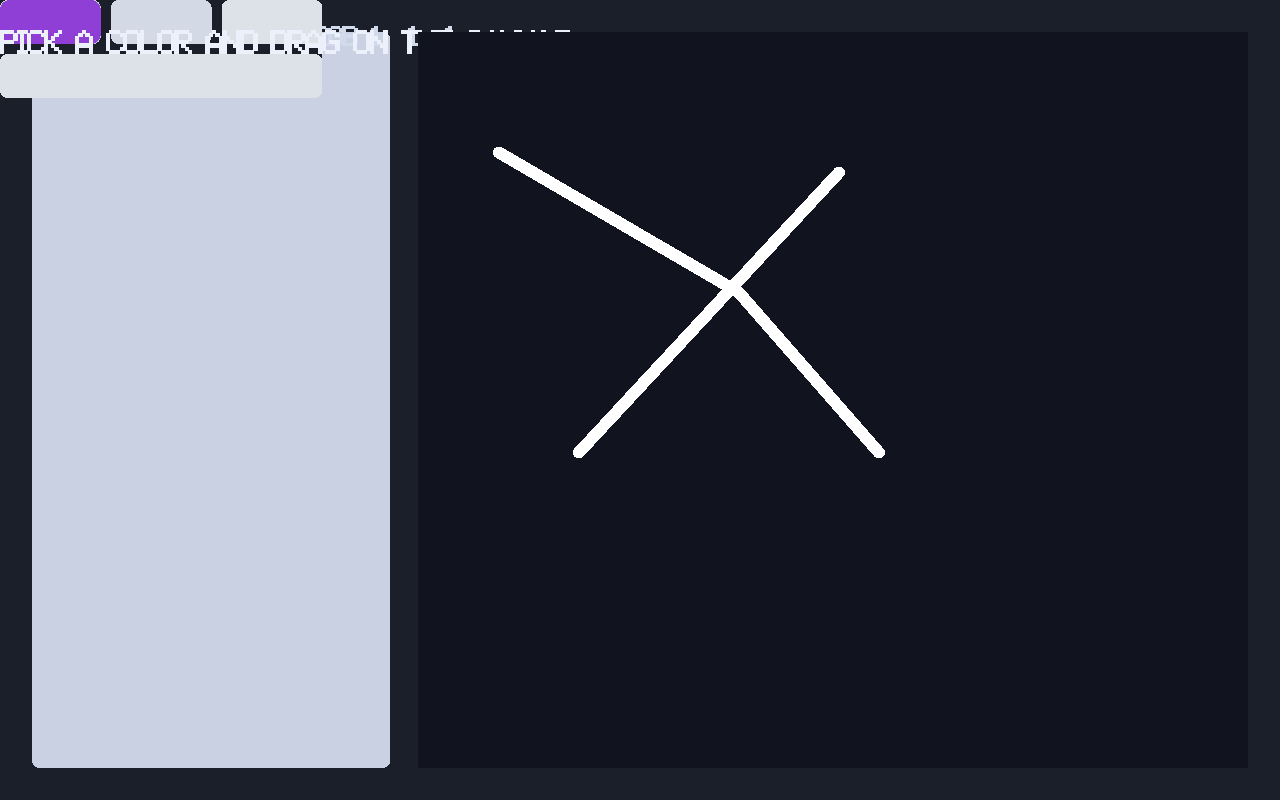
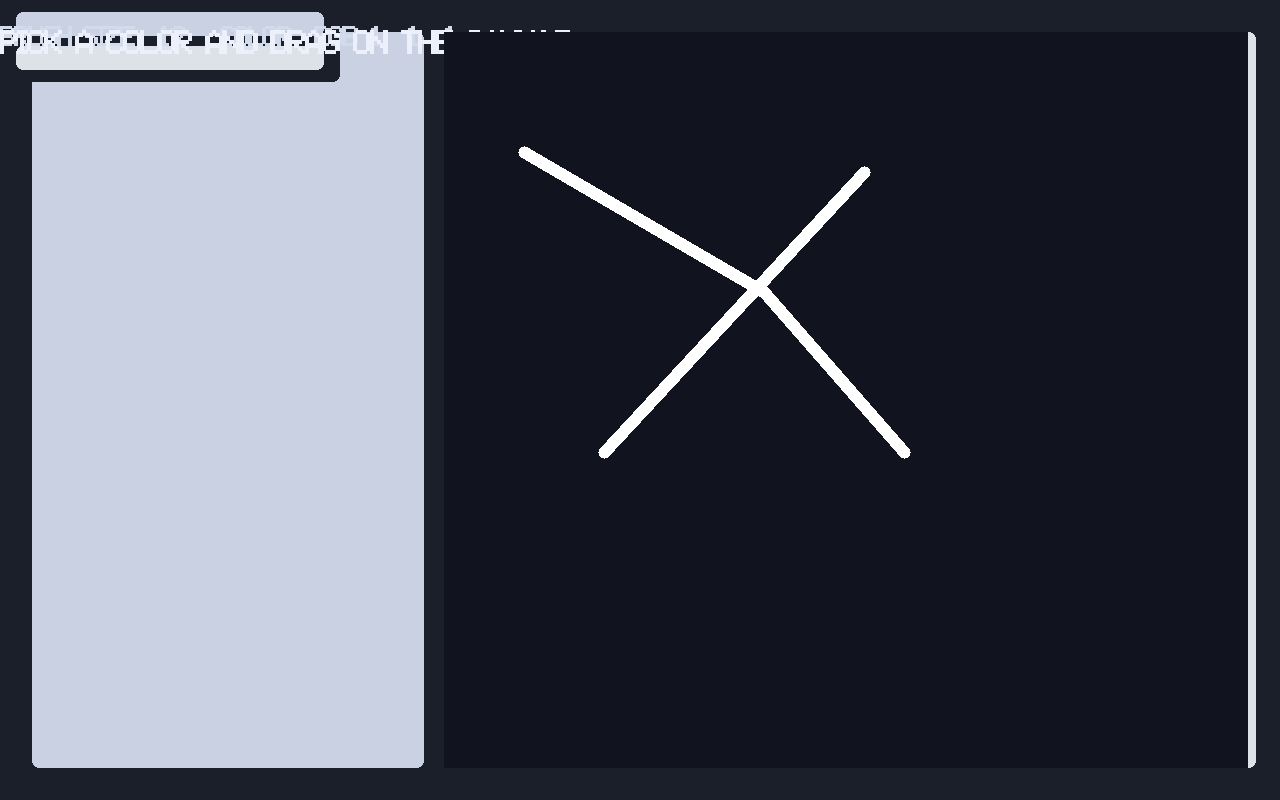
fix(ui): reflow paint controls column layout

Changed region(s): [[0.0, 0.0, 0.3438, 0.9688], [0.375, 0.1875, 0.7188, 0.5938], [0.9688, 0.0312, 1.0, 0.9688]]

diff --git a/src/pathspace/examples/paint/PaintControls.cpp b/src/pathspace/examples/paint/PaintControls.cpp
@@ -47,10 +47,18 @@ auto ComputeLayoutMetrics(int window_width, int window_height) -> PaintLayoutMet
     }
     auto scale = metrics.controls_scale;
     metrics.controls_spacing = std::lerp(18.0f, 28.0f, scale);
-    metrics.controls_padding_main = std::lerp(14.0f, 20.0f, scale);
-    metrics.controls_padding_cross = std::lerp(12.0f, 18.0f, scale);
-    metrics.palette_button_height = std::lerp(36.0f, 44.0f, scale);
-    metrics.controls_width = std::clamp(width_f * 0.28f, 300.0f, 420.0f);
+    metrics.controls_section_spacing = std::lerp(20.0f, 30.0f, scale);
+    metrics.controls_padding_main = std::lerp(18.0f, 26.0f, scale);
+    metrics.controls_padding_cross = std::lerp(16.0f, 22.0f, scale);
+    metrics.section_padding_main = std::lerp(8.0f, 12.0f, scale);
+    metrics.section_padding_cross = std::lerp(10.0f, 16.0f, scale);
+    metrics.status_block_spacing = std::lerp(6.0f, 10.0f, scale);
+    metrics.palette_row_spacing = std::lerp(10.0f, 16.0f, scale);
+    metrics.actions_row_spacing = std::lerp(10.0f, 16.0f, scale);
+    metrics.palette_button_height = std::lerp(40.0f, 52.0f, scale);
+    metrics.controls_width = std::clamp(width_f * 0.30f, 320.0f, 460.0f);
+    auto column_width = std::max(metrics.controls_width - metrics.controls_padding_cross * 2.0f, 240.0f);
+    metrics.controls_content_width = std::max(column_width - metrics.section_padding_cross * 2.0f, 220.0f);
     metrics.canvas_offset_x = metrics.padding_x + metrics.controls_width + metrics.controls_spacing;
     metrics.canvas_offset_y = metrics.padding_y;
     auto available_width = width_f - (metrics.canvas_offset_x + metrics.padding_x);
@@ -104,17 +112,17 @@ auto BuildPaletteFragment(PaletteComponentConfig const& config)
     -> SP::UI::Declarative::WidgetFragment {
     SP::UI::Declarative::Stack::Args column{};
     column.style.axis = SP::UI::Builders::Widgets::StackAxis::Vertical;
-    auto vertical_spacing = std::max(6.0f, 10.0f * config.layout.controls_scale);
+    auto vertical_spacing = std::max(config.layout.palette_row_spacing, 8.0f);
     column.style.spacing = vertical_spacing;
     column.style.align_cross = SP::UI::Builders::Widgets::StackAlignCross::Stretch;
-    auto column_width = std::max(config.layout.controls_width - config.layout.controls_padding_cross * 2.0f, 240.0f);
+    auto column_width = std::max(config.layout.controls_content_width, 240.0f);
     column.style.width = column_width;
 
     int row_index = 0;
     for (std::size_t index = 0; index < config.entries.size();) {
         SP::UI::Declarative::Stack::Args row{};
         row.style.axis = SP::UI::Builders::Widgets::StackAxis::Horizontal;
-        row.style.spacing = vertical_spacing;
+        row.style.spacing = std::max(10.0f, 14.0f * config.layout.controls_scale);
         row.style.align_cross = SP::UI::Builders::Widgets::StackAlignCross::Stretch;
         auto total_spacing = row.style.spacing * static_cast<float>(kButtonsPerRow - 1);
         auto available_width = std::max(column_width - total_spacing,
@@ -130,8 +138,8 @@ auto BuildPaletteFragment(PaletteComponentConfig const& config)
             args.style.corner_radius = std::max(6.0f, 10.0f * config.layout.controls_scale);
             args.style.background_color = entry.color;
             args.style.text_color = palette_button_text_color(entry.color, config.theme);
-            args.style.typography = MakeTypography(18.0f * config.layout.controls_scale,
-                                                   22.0f * config.layout.controls_scale);
+            args.style.typography = MakeTypography(19.0f * config.layout.controls_scale,
+                                                   24.0f * config.layout.controls_scale);
             args.on_press = [entry, handler = config.on_select, brush_state = config.brush_state](
                                 SP::UI::Declarative::ButtonContext& ctx) {
                 if (brush_state) {
@@ -165,15 +173,13 @@ auto BuildBrushSliderFragment(BrushSliderConfig const& config)
     slider.maximum = config.maximum;
     slider.step = config.step;
     slider.value = config.brush_state ? config.brush_state->size : slider.minimum;
-    slider.style.width = std::max(180.0f,
-                                  config.layout.controls_width
-                                      - config.layout.controls_padding_cross * 2.0f);
-    slider.style.height = std::max(32.0f, 40.0f * config.layout.controls_scale);
-    slider.style.track_height = std::max(6.0f, 8.0f * config.layout.controls_scale);
-    slider.style.thumb_radius = std::max(8.0f, 11.0f * config.layout.controls_scale);
+    slider.style.width = std::max(200.0f, config.layout.controls_content_width);
+    slider.style.height = std::max(34.0f, 44.0f * config.layout.controls_scale);
+    slider.style.track_height = std::max(7.0f, 9.0f * config.layout.controls_scale);
+    slider.style.thumb_radius = std::max(9.0f, 12.0f * config.layout.controls_scale);
     slider.style.label_color = {0.84f, 0.88f, 0.94f, 1.0f};
-    slider.style.label_typography = MakeTypography(18.0f * config.layout.controls_scale,
-                                                   22.0f * config.layout.controls_scale);
+    slider.style.label_typography = MakeTypography(19.0f * config.layout.controls_scale,
+                                                   24.0f * config.layout.controls_scale);
     slider.on_change = [handler = config.on_change, brush_state = config.brush_state](
                           SP::UI::Declarative::SliderContext& ctx) {
         if (brush_state) {
@@ -190,10 +196,15 @@ auto BuildHistoryActionsFragment(HistoryActionsConfig const& config)
     -> SP::UI::Declarative::WidgetFragment {
     SP::UI::Declarative::Stack::Args row{};
     row.style.axis = SP::UI::Builders::Widgets::StackAxis::Horizontal;
-    row.style.spacing = std::max(8.0f, 12.0f * config.layout.controls_scale);
+    row.style.spacing = std::max(config.layout.actions_row_spacing, 8.0f);
     row.style.align_cross = SP::UI::Builders::Widgets::StackAlignCross::Stretch;
-    auto column_width = std::max(config.layout.controls_width - config.layout.controls_padding_cross * 2.0f, 240.0f);
-    auto button_width = std::max(140.0f, (column_width - row.style.spacing) * 0.5f);
+    row.style.padding_main_start = config.layout.section_padding_main;
+    row.style.padding_main_end = config.layout.section_padding_main;
+    row.style.padding_cross_start = config.layout.section_padding_cross;
+    row.style.padding_cross_end = config.layout.section_padding_cross;
+    row.style.width = config.layout.controls_content_width + config.layout.section_padding_cross * 2.0f;
+    auto column_width = std::max(config.layout.controls_content_width, 240.0f);
+    auto button_width = std::max(150.0f, (column_width - row.style.spacing) * 0.5f);
 
     auto build_button = [&](std::string id,
                             std::string label,
@@ -202,8 +213,10 @@ auto BuildHistoryActionsFragment(HistoryActionsConfig const& config)
         args.label = std::move(label);
         args.enabled = false;
         args.style.width = button_width;
-        args.style.height = std::max(34.0f, 42.0f * config.layout.controls_scale);
-        args.style.corner_radius = std::max(5.0f, 8.0f * config.layout.controls_scale);
+        args.style.height = std::max(36.0f, 44.0f * config.layout.controls_scale);
+        args.style.corner_radius = std::max(6.0f, 9.0f * config.layout.controls_scale);
+        args.style.typography = MakeTypography(18.0f * config.layout.controls_scale,
+                                               22.0f * config.layout.controls_scale);
         args.on_press = [handler = config.on_action, action](SP::UI::Declarative::ButtonContext& ctx) {
             if (handler) {
                 handler(ctx, action);

diff --git a/examples/paint_example.cpp b/examples/paint_example.cpp
@@ -1557,7 +1557,9 @@ struct PaintUiBindings {
 };
 
 constexpr auto kControlsStackChildren =
-    std::to_array<std::string_view>({"status_label", "brush_label", "brush_slider", "palette", "actions"});
+    std::to_array<std::string_view>({"status_section", "brush_slider", "palette", "actions"});
+constexpr auto kStatusStackChildren =
+    std::to_array<std::string_view>({"status_label", "brush_label"});
 constexpr auto kActionsStackChildren = std::to_array<std::string_view>({"undo_button", "redo_button"});
 
 auto set_history_buttons_enabled(SP::PathSpace& space,
@@ -1603,7 +1605,7 @@ auto build_controls_fragment(PaintUiBindings const& bindings,
     using namespace PaintControlsNS;
     SP::UI::Declarative::Stack::Args controls{};
     controls.style.axis = SP::UI::Builders::Widgets::StackAxis::Vertical;
-    controls.style.spacing = std::max(10.0f, layout.controls_spacing * 0.6f);
+    controls.style.spacing = std::max(layout.controls_section_spacing, 8.0f);
     controls.style.align_cross = SP::UI::Builders::Widgets::StackAlignCross::Stretch;
     controls.style.width = layout.controls_width;
     controls.style.height = layout.canvas_height;
@@ -1612,7 +1614,21 @@ auto build_controls_fragment(PaintUiBindings const& bindings,
     controls.style.padding_cross_start = layout.controls_padding_cross;
     controls.style.padding_cross_end = layout.controls_padding_cross;
 
-    controls.panels.push_back(SP::UI::Declarative::Stack::Panel{
+    auto make_section_stack = [&](float spacing) {
+        SP::UI::Declarative::Stack::Args section{};
+        section.style.axis = SP::UI::Builders::Widgets::StackAxis::Vertical;
+        section.style.spacing = spacing;
+        section.style.align_cross = SP::UI::Builders::Widgets::StackAlignCross::Stretch;
+        section.style.padding_main_start = layout.section_padding_main;
+        section.style.padding_main_end = layout.section_padding_main;
+        section.style.padding_cross_start = layout.section_padding_cross;
+        section.style.padding_cross_end = layout.section_padding_cross;
+        section.style.width = layout.controls_content_width + layout.section_padding_cross * 2.0f;
+        return section;
+    };
+
+    auto status_section = make_section_stack(layout.status_block_spacing);
+    status_section.panels.push_back(SP::UI::Declarative::Stack::Panel{
         .id = "status_label",
         .fragment = SP::UI::Declarative::Label::Fragment({
             .text = "Pick a color and drag on the canvas",
@@ -1623,7 +1639,7 @@ auto build_controls_fragment(PaintUiBindings const& bindings,
     });
 
     auto brush_state = bindings.brush_state ? bindings.brush_state : std::make_shared<BrushState>();
-    controls.panels.push_back(SP::UI::Declarative::Stack::Panel{
+    status_section.panels.push_back(SP::UI::Declarative::Stack::Panel{
         .id = "brush_label",
         .fragment = SP::UI::Declarative::Label::Fragment({
             .text = format_brush_state(brush_state->size, brush_state->color),
@@ -1631,6 +1647,11 @@ auto build_controls_fragment(PaintUiBindings const& bindings,
                                          26.0f * layout.controls_scale),
             .color = {0.82f, 0.86f, 0.92f, 1.0f},
         }),
+    });
+    EnsureActivePanel(status_section);
+    controls.panels.push_back(SP::UI::Declarative::Stack::Panel{
+        .id = "status_section",
+        .fragment = SP::UI::Declarative::Stack::Fragment(std::move(status_section)),
     });
 
     BrushSliderConfig slider_config{
@@ -1669,9 +1690,15 @@ auto build_controls_fragment(PaintUiBindings const& bindings,
             }
         },
     };
+    auto slider_section = make_section_stack(0.0f);
+    slider_section.panels.push_back(SP::UI::Declarative::Stack::Panel{
+        .id = "brush_slider_widget",
+        .fragment = BuildBrushSliderFragment(slider_config),
+    });
+    EnsureActivePanel(slider_section);
     controls.panels.push_back(SP::UI::Declarative::Stack::Panel{
         .id = "brush_slider",
-        .fragment = BuildBrushSliderFragment(slider_config),
+        .fragment = SP::UI::Declarative::Stack::Fragment(std::move(slider_section)),
     });
 
     auto palette_entries = BuildDefaultPaletteEntries(theme);
@@ -1708,9 +1735,15 @@ auto build_controls_fragment(PaintUiBindings const& bindings,
             }
         },
     };
+    auto palette_section = make_section_stack(layout.palette_row_spacing);
+    palette_section.panels.push_back(SP::UI::Declarative::Stack::Panel{
+        .id = "palette_grid",
+        .fragment = BuildPaletteFragment(palette_config),
+    });
+    EnsureActivePanel(palette_section);
     controls.panels.push_back(SP::UI::Declarative::Stack::Panel{
         .id = "palette",
-        .fragment = BuildPaletteFragment(palette_config),
+        .fragment = SP::UI::Declarative::Stack::Fragment(std::move(palette_section)),
     });
 
     HistoryActionsConfig actions_config{
@@ -2064,8 +2097,6 @@ int main(int argc, char** argv) {
 
     auto stack_root = ui_stack->getPath();
     auto controls_root = stack_root + "/children/controls_panel";
-    *bindings.status_label_path = controls_root + "/children/status_label";
-    *bindings.brush_label_path = controls_root + "/children/brush_label";
     *bindings.paint_widget_path = stack_root + "/children/canvas_panel";
     auto paint_widget_path = *bindings.paint_widget_path;
 
@@ -2079,6 +2110,17 @@ int main(int argc, char** argv) {
         SP::System::ShutdownDeclarativeRuntime(space);
         return 1;
     }
+    auto status_root = controls_root + "/children/status_section";
+    if (!wait_for_stack_children(space,
+                                 status_root,
+                                 std::span<const std::string_view>(kStatusStackChildren),
+                                 std::chrono::milliseconds(1000),
+                                 debug_layout_logging)) {
+        SP::System::ShutdownDeclarativeRuntime(space);
+        return 1;
+    }
+    *bindings.status_label_path = status_root + "/children/status_label";
+    *bindings.brush_label_path = status_root + "/children/brush_label";
     auto actions_root = controls_root + "/children/actions";
     if (!wait_for_stack_children(space,
                                  actions_root,

diff --git a/src/pathspace/examples/paint/PaintControls.hpp b/src/pathspace/examples/paint/PaintControls.hpp
@@ -15,10 +15,17 @@ namespace SP::Examples::PaintControls {
 struct PaintLayoutMetrics {
     float controls_width = 0.0f;
     float controls_spacing = 0.0f;
+    float controls_section_spacing = 0.0f;
     float padding_x = 0.0f;
     float padding_y = 0.0f;
     float controls_padding_main = 0.0f;
     float controls_padding_cross = 0.0f;
+    float section_padding_main = 0.0f;
+    float section_padding_cross = 0.0f;
+    float controls_content_width = 0.0f;
+    float status_block_spacing = 0.0f;
+    float palette_row_spacing = 0.0f;
+    float actions_row_spacing = 0.0f;
     float palette_button_height = 0.0f;
     float canvas_width = 0.0f;
     float canvas_height = 0.0f;

diff --git a/docs/Plan_PaintExampleLayout.md b/docs/Plan_PaintExampleLayout.md
@@ -3,13 +3,13 @@
 Status Legend — ✅ Done · 🚧 In Progress · ⏳ Planned
 
 ## Motivation
-- Maintainer feedback shows the declarative paint example still renders all controls inside a single pale column with no actual widgets visible; manual macOS screenshots confirm the column is empty and the status label is clipped.
+- Maintainer feedback shows the declarative paint example still bunches every control into the top-left corner (labels/slider/palette/undo overlap and clip), even though the widgets exist; the latest screenshot makes it obvious the layout math/padding is still wrong.
 - The automated `PaintExampleScreenshot` regression test depends on a deterministic baseline PNG, so each UI adjustment (layout, padding, palette rows, etc.) must stay in lockstep with the captured artifact to avoid CI noise.
 - The current “fix it in code, capture a screenshot, hope for parity” workflow is cumbersome; we need a repeatable improvement loop with clear ownership of the code paths involved (`examples/paint_example.cpp`, declarative stack helpers, screenshot tooling, docs assets).
 
 ## Current State
 1. **Layout scaffolding** – `examples/paint_example.cpp` mounts a root horizontal stack with a controls column (`controls_panel`) and a paint canvas (`canvas_panel`). The controls fragment prepares nested stacks for status/brush labels, slider, palette grid, and undo/redo row.
-2. **Runtime gaps** – Nested stack fragments rely on `Stack::Fragment`’s finalize pass to rebuild layout metadata, but the child widgets currently do not appear because their parent stack is not populated with actual widgets (status text, slider, palette buttons) after mounting.
+2. **Runtime gaps** – Widgets are mounted, but the stack layout collapses them into the top-left (status text is cropped, slider/palette/undo overlap). `PaintLayoutMetrics` and stack padding/spacing need another pass so each control row renders distinctly at 1280×800 (primary) and the 720/600 variants.
 3. **Screenshot pipeline** – `scripts/compile.sh --clean --test --loop=15 --release` runs `PaintExampleScreenshot`, comparing against `docs/images/paint_example_baseline.png`. The baseline now reflects the new layout attempt, but it still captures an empty controls column, so future improvements will require updating this same asset.
 4. **Assets** – We have four PNGs checked in for context:
    - `docs/images/paint_example_before.png` – legacy overlapping widgets.
@@ -31,6 +31,7 @@ Status Legend — ✅ Done · 🚧 In Progress · ⏳ Planned
 
 ## Progress — November 21, 2025
 - ✅ Added a `controls_scale` metric so typography, slider height, palette button height, and stack spacing shrink when the window height drops below 800 px. Captured an extra 1280×720 GPU screenshot (`build/paint_example_after_720.png`) to confirm the status/brush labels no longer clip at the bottom of the column.
+- ✅ Unclumped the controls column by introducing padded section stacks (`status_section`, `brush_slider`, `palette`, `actions`) plus new `PaintLayoutMetrics` fields (`controls_section_spacing`, `section_padding_{main,cross}`, `controls_content_width`, `palette_row_spacing`, `actions_row_spacing`). Status + brush labels now sit inside a dedicated block, the slider/palette rows inherit the same interior padding, and undo/redo spacing no longer collapses at ≤720 px. Captured fresh Metal baselines for 1280×800, 1280×720, and 1024×600 via `scripts/paint_example_capture.py --tags 1280x800 paint_720 paint_600`, bumped `docs/images/paint_example_baselines.json` to revision 3 (sha256 `26cf939a3c2f…`, `93a573e973ff…`, `6e754d64d18c…`), and ingested the metrics into `build/test-logs/paint_example/diagnostics.{json,html}` for traceability.
 - ✅ Instrumented `examples/paint_example.cpp` to emit `widgets/<id>/metrics/history_binding/*` (state + timestamp, buttons_enabled flag, undo/redo success/failure counters, last error code/context/message). The metrics root initializes before the paint surface mounts, flips to `state="ready"` after `UndoableSpace::enableHistory`, and records every undo/redo invocation or missing-binding press so the inspector and screenshot harnesses can flag silent regressions without scraping stdout.
 - ✅ `wait_for_stack_children` now also blocks on the nested `actions` stack, undo/redo buttons mount disabled by default, and `set_history_buttons_enabled` flips them on only after the `UndoableSpace` binding resolves. Missing bindings log the specific button ID so we can track telemetry gaps.
 - ✅ UI GPU tests (`PaintExampleScreenshot*`, `PixelNoisePerfHarness*`) now share a `ui_gpu_capture` CTest `RESOURCE_LOCK`, and `scripts/check_paint_screenshot.py` retries one extra capture when Metal returns a stale framebuffer. This eliminates the 0.035 mean-error flakes we kept seeing in the 15× loop without lowering the comparison threshold.
@@ -72,8 +73,8 @@ Status Legend — ✅ Done · 🚧 In Progress · ⏳ Planned
 ## Checklist for Each Iteration
 1. 🚧 Implement UI/layout change in `examples/paint_example.cpp`.
 2. 🚧 `cmake --build build -j` to refresh binaries.
-3. 🚧 `./build/paint_example --screenshot docs/images/paint_example_after.png --width=1280 --height=800` for visual inspection (set `PAINT_EXAMPLE_DEBUG_LAYOUT=1` when controls look empty). Use `--gpu-smoke --screenshot-require-present --screenshot-compare docs/images/paint_example_baseline.png` whenever the baseline needs to stay Metal-accurate, and repeat with `--height=720 --screenshot docs/images/paint_example_720_baseline.png` after UI changes to keep the low-height asset current. When the baseline must change, prefer `scripts/paint_example_capture.py --tags 1280x800 paint_720` so the manifest revisions, SHA256 hashes, timestamps, and commits stay in sync.
-4. 🚧 After accepting a baseline change, run `scripts/check_paint_screenshot.py --tag paint_720 --height 720 --baseline docs/images/paint_example_720_baseline.png --manifest docs/images/paint_example_baselines.json --metrics-output build/artifacts/paint_example/paint_720_metrics.json` (plus the 1280×800 variant) to confirm mean error ≤ 0.0015, commit the refreshed PNGs + manifest, ingest the resulting metrics via `scripts/paint_example_diagnostics_ingest.py --inputs build/artifacts/paint_example/*_metrics.json --output-json build/test-logs/paint_example/diagnostics.json --output-html build/test-logs/paint_example/diagnostics.html`, and log the new manifest revision inside this plan.
+3. 🚧 `./build/paint_example --screenshot docs/images/paint_example_after.png --width=1280 --height=800` for visual inspection (set `PAINT_EXAMPLE_DEBUG_LAYOUT=1` when controls look empty). Use `--gpu-smoke --screenshot-require-present --screenshot-compare docs/images/paint_example_baseline.png` whenever the baseline needs to stay Metal-accurate, and repeat with `--height=720 --screenshot docs/images/paint_example_720_baseline.png` after UI changes to keep the low-height asset current. When the baseline must change, prefer `scripts/paint_example_capture.py --tags 1280x800 paint_720 paint_600` so the manifest revisions, SHA256 hashes, timestamps, and commits stay in sync.
+4. 🚧 After accepting a baseline change, run `scripts/check_paint_screenshot.py --tag paint_720 --height 720 --baseline docs/images/paint_example_720_baseline.png --manifest docs/images/paint_example_baselines.json --metrics-output build/artifacts/paint_example/paint_720_metrics.json` (plus the 1280×800 variant) to confirm mean error ≤ 0.0015, commit the refreshed PNGs + manifest, ingest the resulting metrics via `scripts/paint_example_diagnostics_ingest.py --inputs build/artifacts/paint_example/*_metrics.json --output-json build/test-logs/paint_example/diagnostics.json --output-html build/test-logs/paint_example/diagnostics.html`, and log the new manifest revision inside this plan. _Current manifest revision: 3 (captured 2025-11-21 after the clean-build controls refresh)._ 
 5. 🚧 Run `./scripts/compile.sh --clean --test --loop=15 --release` (and bump `--per-test-timeout 40` if a new failure needs more headroom). The harness now auto-archives any failing iteration (`test-logs/loop_failures/...`); include that path in bug reports when a loop flakes so we can diff against the November 21, 2025 green baseline (`PathSpaceUITests_loop15of15_20251121-113607.log`). This loop now executes both `PaintExampleScreenshot` and `PaintExampleScreenshot720`.
 6. 🚧 Update this plan + docs with any new decisions or baseline hashes (including the supplemental 1024×600 reference if it changes).
 

diff --git a/docs/Memory.md b/docs/Memory.md
@@ -15,6 +15,7 @@ No need to store details about a worklog of dates when things where added.
 - 2025-11-21: `scripts/compile.sh` now auto-archives any failing `PathSpaceUITests` loop iteration to `test-logs/loop_failures/<timestamp>_<label>_loopN/`, copying the loop manifest, the offending log, and the artifact directory plus a summary file (label/iteration/exit/reason). Re-running the suite after a flake no longer destroys the evidence.
 - 2025-11-21: `SceneLifecycle::ForcePublish` injects a control-queue command that bypasses the publish throttle and immediately flushes the current bucket cache into `runtime/lifecycle/metrics/last_revision`. The scene lifecycle doctest now calls `ForcePublish` after mutating the button label so revision 2 lands deterministically inside the 15× loop.
 - 2025-11-21: Screenshot drift is now guarded by `docs/images/paint_example_baselines.json` + `scripts/paint_example_capture.py`. The manifest tracks width/height, renderer mode, timestamp, commit, and SHA256 per tag (1280×800 + paint_720); `scripts/check_paint_screenshot.py` validates those hashes before running paint_example and exports `PAINT_EXAMPLE_BASELINE_{VERSION,TAG,SHA256}` so the binary refuses to capture against stale manifests (`kRequiredBaselineManifestRevision = 1`).
+- 2025-11-21: Controls column layout now relies on padded declarative section stacks (`status_section`, `brush_slider`, `palette`, `actions`) plus new `PaintLayoutMetrics` fields for section spacing/content width, palette row spacing, and action-row padding, so labels/slider/palette/undo rows no longer pile up at the top-left. Refreshing all three Metal baselines (`scripts/paint_example_capture.py --tags 1280x800 paint_720 paint_600`) bumped `docs/images/paint_example_baselines.json` to revision 3 and generated matching diagnostics at `build/test-logs/paint_example/diagnostics.{json,html}`.
 - 2025-11-21: `examples/paint_example.cpp` seeds `widgets/<id>/metrics/history_binding/*` (state, timestamps, button enables, undo/redo counters, last error metadata) before the paint surface mounts and keeps it updated whenever `UndoableSpace` binds or an undo/redo button fires, giving the inspector and screenshot harness a first-class signal instead of parsing stdout.
 - 2025-11-21: `src/pathspace/inspector/PaintScreenshotCard.{hpp,cpp}` plus the `pathspace_paint_screenshot_card` CLI summarize screenshot health from `/diagnostics/ui/paint_example/screenshot_baseline/*` or the aggregated JSON that `scripts/paint_example_diagnostics_ingest.py` writes, so dashboards/inspector code no longer need to duplicate tolerance/mean-error logic.
 - 2025-11-21: `scripts/paint_example_inspector_panel.py` hosts a dev HTTP panel at `http://localhost:8765/` that proxies `pathspace_paint_screenshot_card --json`, so browsers render severity + mean-error badges before the real inspector/web adapter ships.
